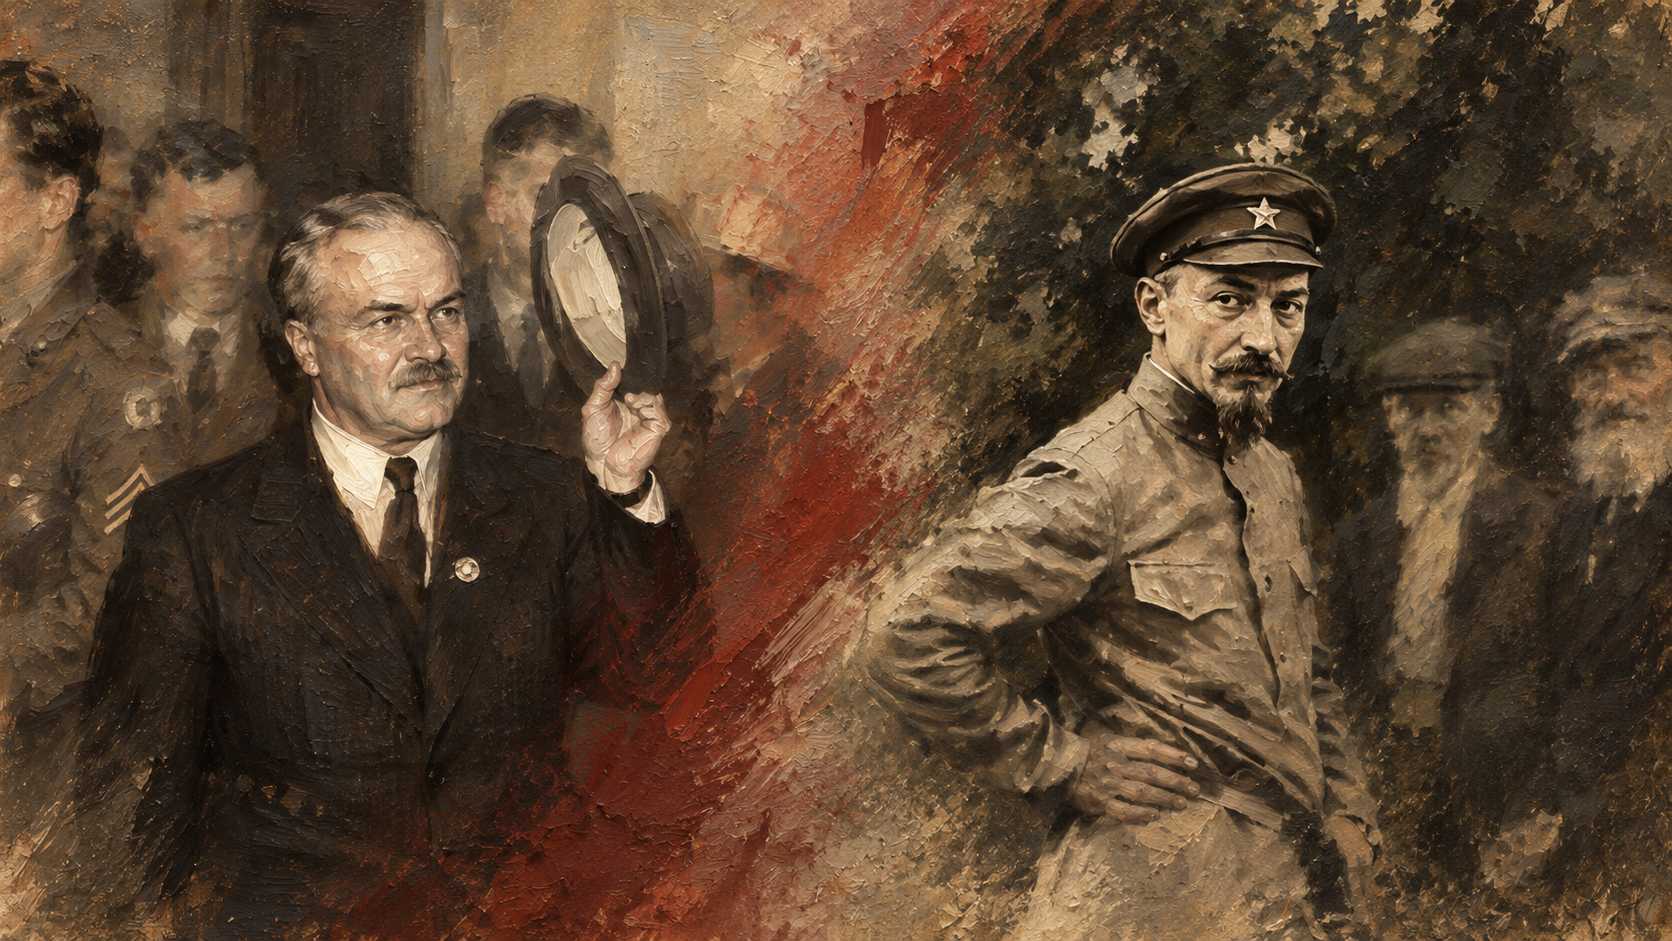
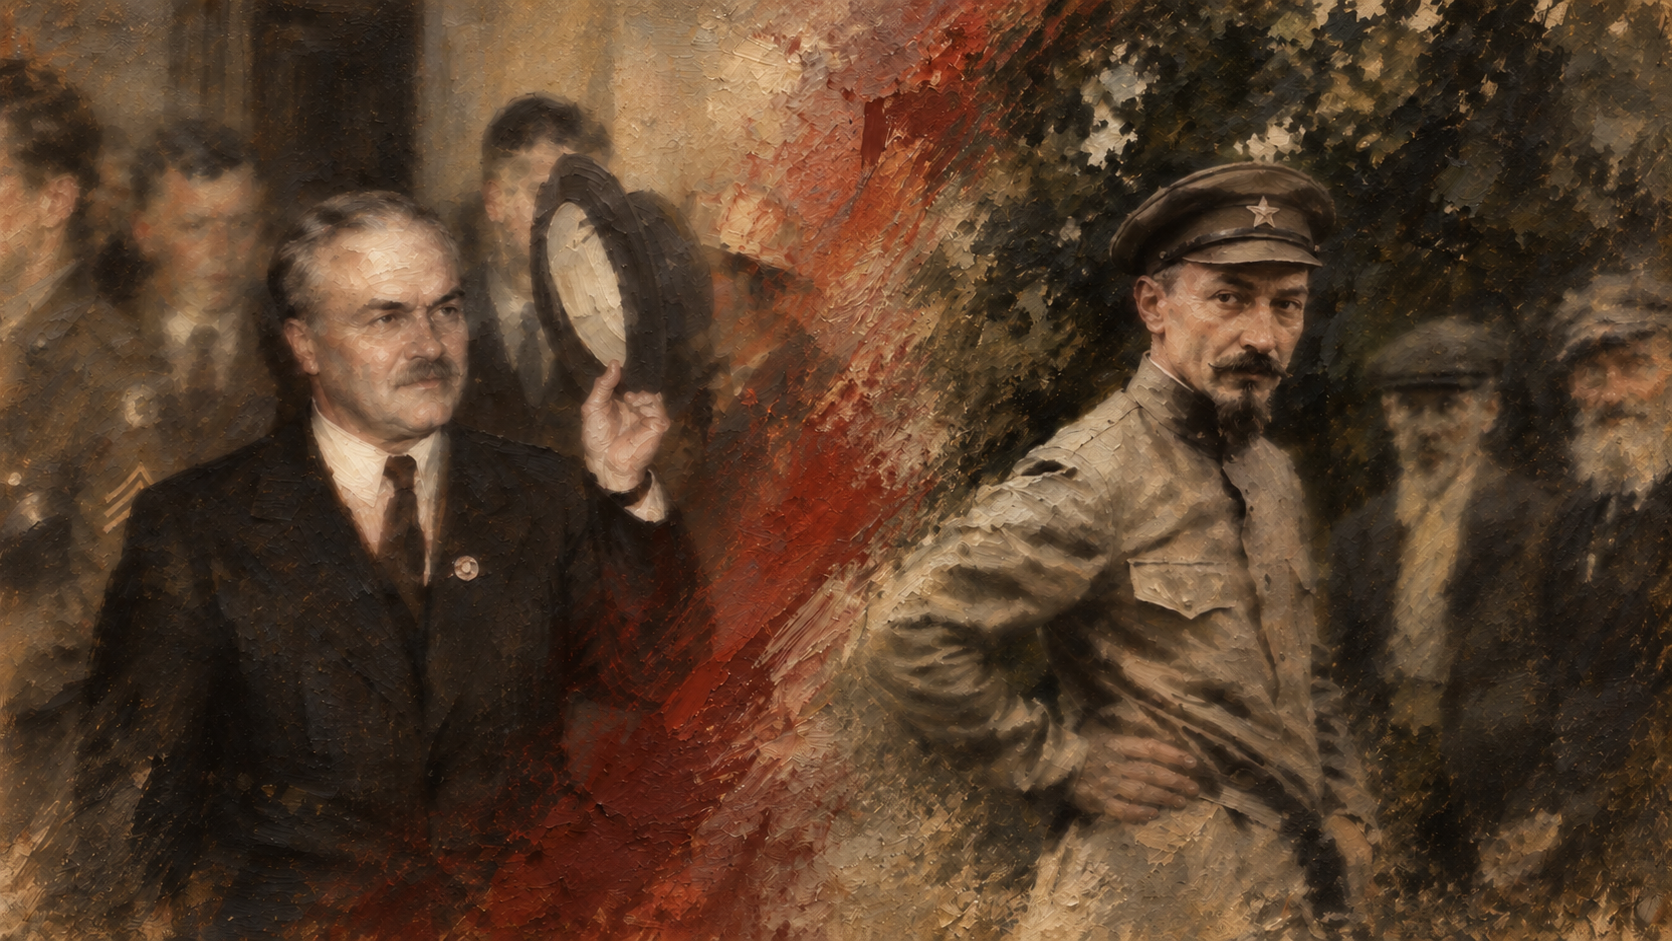
Update test cover to latest supplied painting

diff --git a/MOD制作日志.md b/MOD制作日志.md
@@ -2223,3 +2223,8 @@ mio:RUS_example_organization = {
 ### 2026-09-17 测试版封面替换
 
 - 用户提供油画直接替换thumbnail.png，保留原始比例与像素内容，descriptor.mod已有封面引用无需更改。PNG解码验证通过。
+
+
+### 2026-09-17 更新测试版封面最终图
+
+- 按用户最新图片直接替换thumbnail.png，保留原图；PNG解码验证通过。
